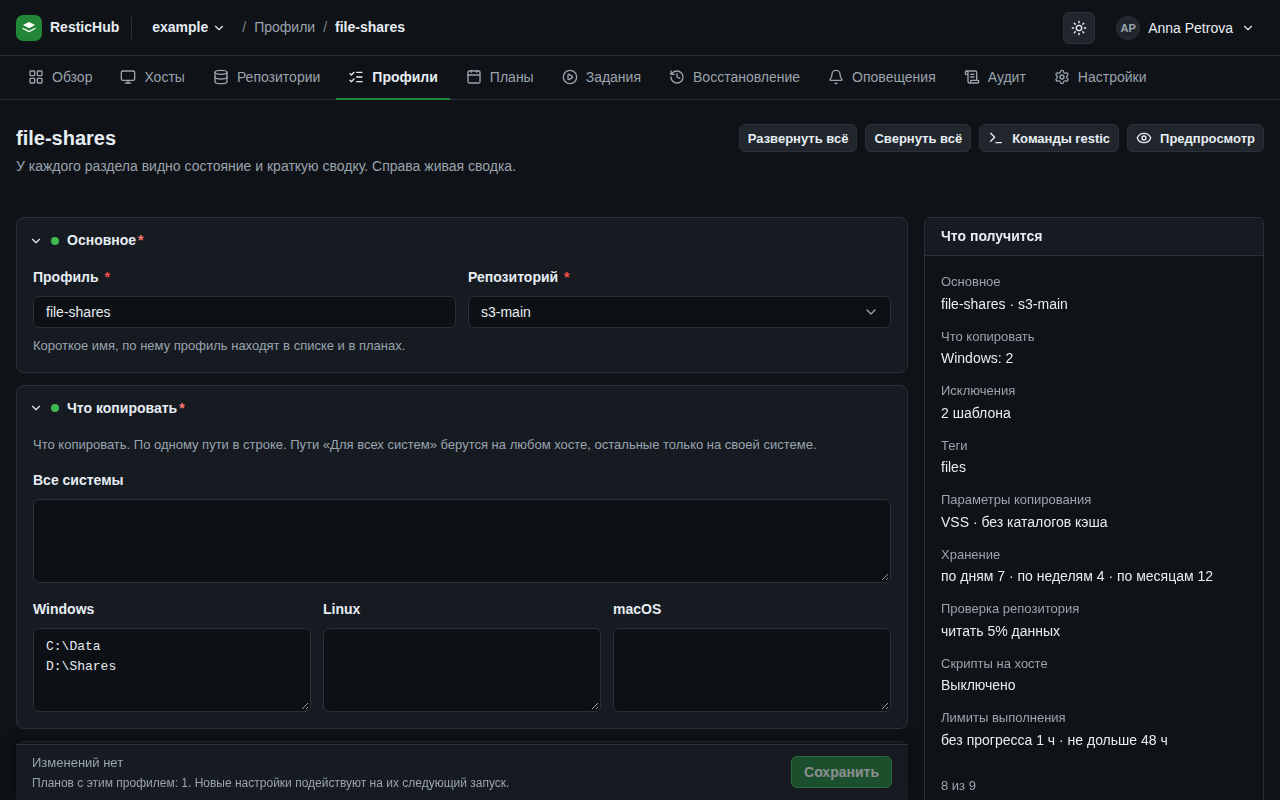
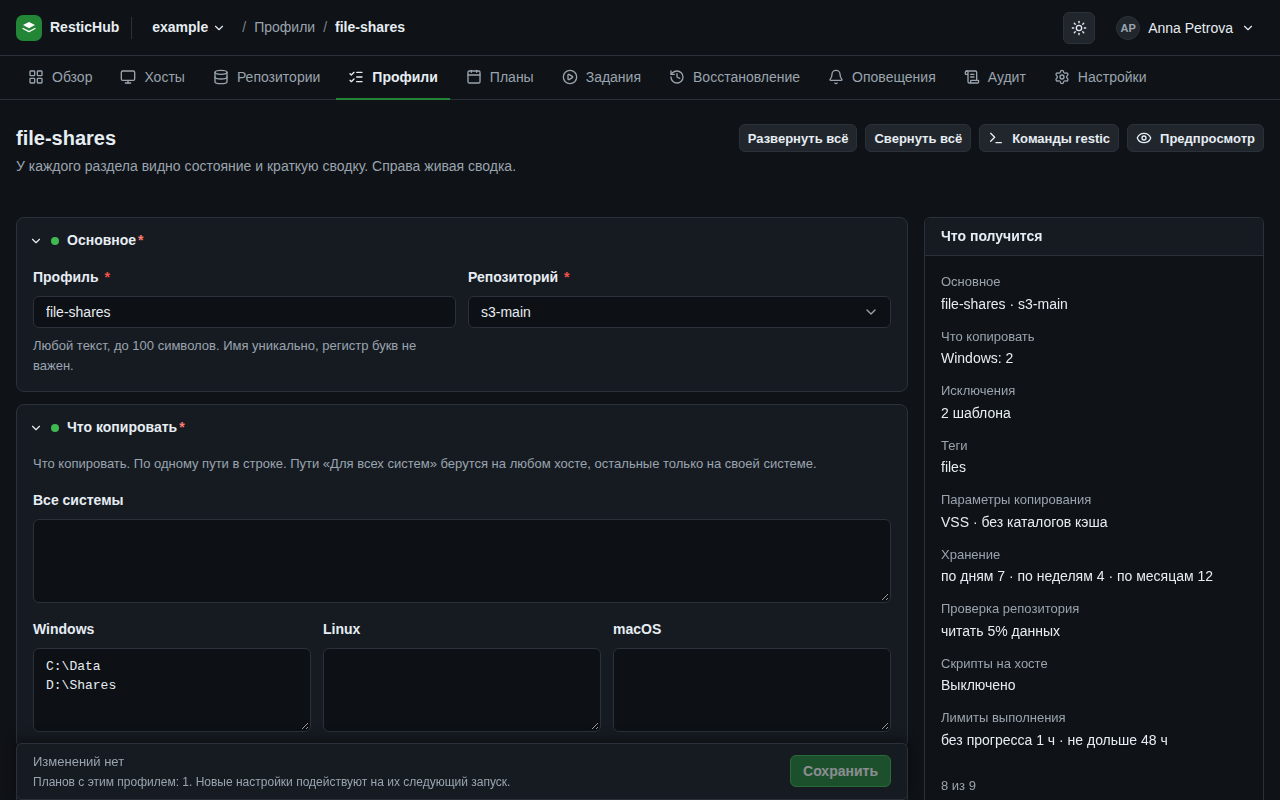
fix(ui): give the save panel a border
The save panel of an editor reads as a separate panel: a full border in the
section border color and the section radius. The page padding below it stays,
so the panel does not touch the bottom edge of the page when the sections end.

The profile mockup moves the panel into the section column, so the mockup and
the app show the same panel. The documentation frames of the editors follow.

diff --git a/ui/mockups/profile-a.html b/ui/mockups/profile-a.html
@@ -170,6 +170,11 @@
 						<div class="pm-fields"><div data-block="limits"></div></div>
 					</div>
 				</section>
+				<div class="pm-savebar">
+					<span class="pm-sub">Изменения не сохранены. Профиль используют 3 плана: новые настройки подействуют на их следующий запуск.</span>
+					<a class="btn" href="profiles.html">Отмена</a>
+					<button class="btn btn--primary" type="button">Сохранить</button>
+				</div>
 				</div>
 				<aside class="pm-side" aria-label="Сводка профиля">
 					<div class="pm-side-box">
@@ -197,10 +202,5 @@
 				</aside>
 			</div>
 		</main>
-		<div class="pm-savebar" style="position: sticky; bottom: 0">
-			<span class="pm-sub">Изменения не сохранены. Профиль используют 3 плана: новые настройки подействуют на их следующий запуск.</span>
-			<a class="btn" href="profiles.html">Отмена</a>
-			<button class="btn btn--primary" type="button">Сохранить</button>
-		</div>
 	</body>
 </html>

diff --git a/ui/src/lib/components/layout/RecordPage.svelte b/ui/src/lib/components/layout/RecordPage.svelte
@@ -155,11 +155,6 @@
 			'bar .';
 	}
 
-	/* The bar ends at the bottom edge of the page, so the page padding below it goes. */
-	.record--save {
-		margin-bottom: calc(-1 * var(--rh-page-padding-bottom, 0px));
-	}
-
 	.record__main {
 		grid-area: main;
 		display: flex;
@@ -200,7 +195,8 @@
 		gap: var(--rh-space-3);
 		min-height: var(--record-bar-height);
 		padding: var(--rh-space-2) var(--rh-space-4);
-		border-top: var(--rh-border-width) solid var(--rh-color-border);
+		border: var(--rh-border-width) solid var(--rh-color-border);
+		border-radius: var(--rh-radius-md);
 		background-color: var(--rh-color-surface-muted);
 	}
 

diff --git a/ui/mockups/profile-mock.css b/ui/mockups/profile-mock.css
@@ -276,8 +276,9 @@
 	align-items: center;
 	gap: var(--space-3);
 	padding: var(--space-3) var(--space-4);
+	border: 1px solid var(--color-border);
+	border-radius: var(--radius);
 	background: var(--color-canvas);
-	border-top: 1px solid var(--color-border);
 	box-shadow: 0 -4px 12px rgba(0, 0, 0, 0.04);
 }
 .pm-savebar .pm-sub {
